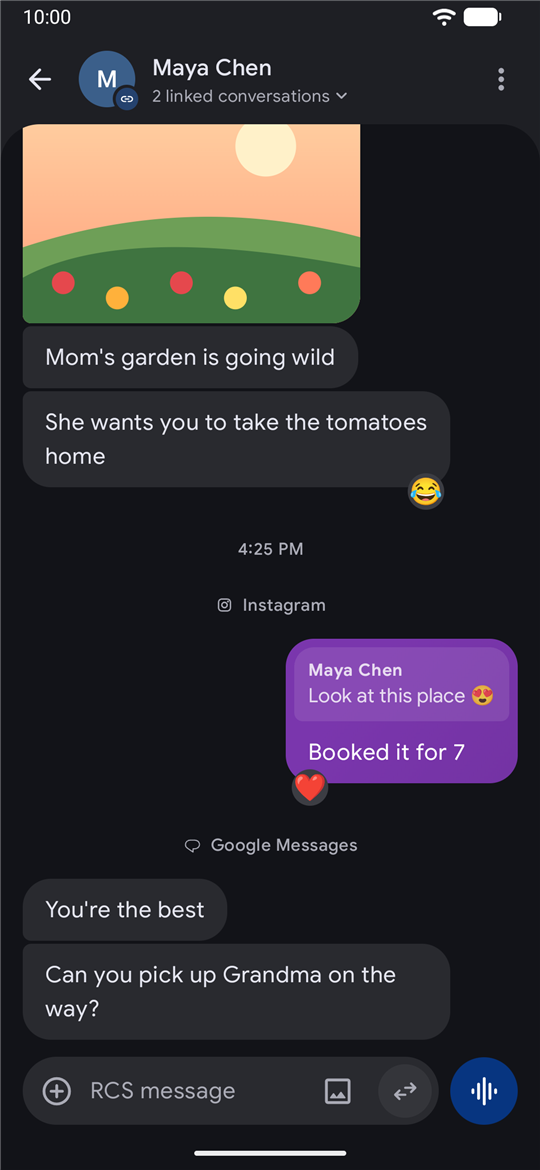
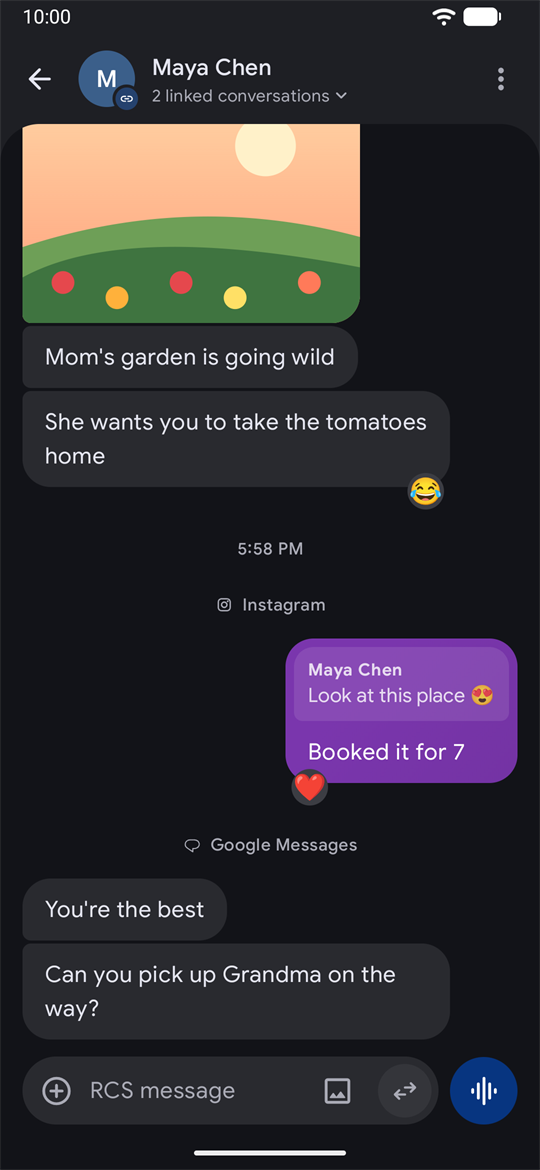
Home page: the latest pictures of Windows and Android

diff --git a/index.html b/index.html
@@ -37,7 +37,7 @@
   <p class="status">Message Link isn't public yet. The guides below show how setup goes; <a href="#downloads">downloads</a> come with the first release.</p>
   <p>Message Link is a native app for Windows 11, and there is an Android app too. It talks to each service directly, the same way the service's own app or website does. Nothing goes through anyone else's cloud: your accounts are signed in on your own PC, or on a Message Link Server that you run at home.</p>
 
-  <figure class="shot"><img src="assets/windows.png" width="1224" height="827" alt="Message Link on Windows: the conversation list beside a conversation with Maya Chen."></figure>
+  <figure class="shot"><img src="assets/windows.png" width="1200" height="900" alt="Message Link on Windows: the conversation list beside Maya Chen's conversations from two services, shown as one."></figure>
   <div class="phones">
     <img src="assets/phone-inbox.png" width="540" height="1170" alt="Message Link on Android: conversations from all four services in one list.">
     <img src="assets/phone-chat.png" width="540" height="1170" alt="One person's Instagram and Google Messages conversations shown together.">
